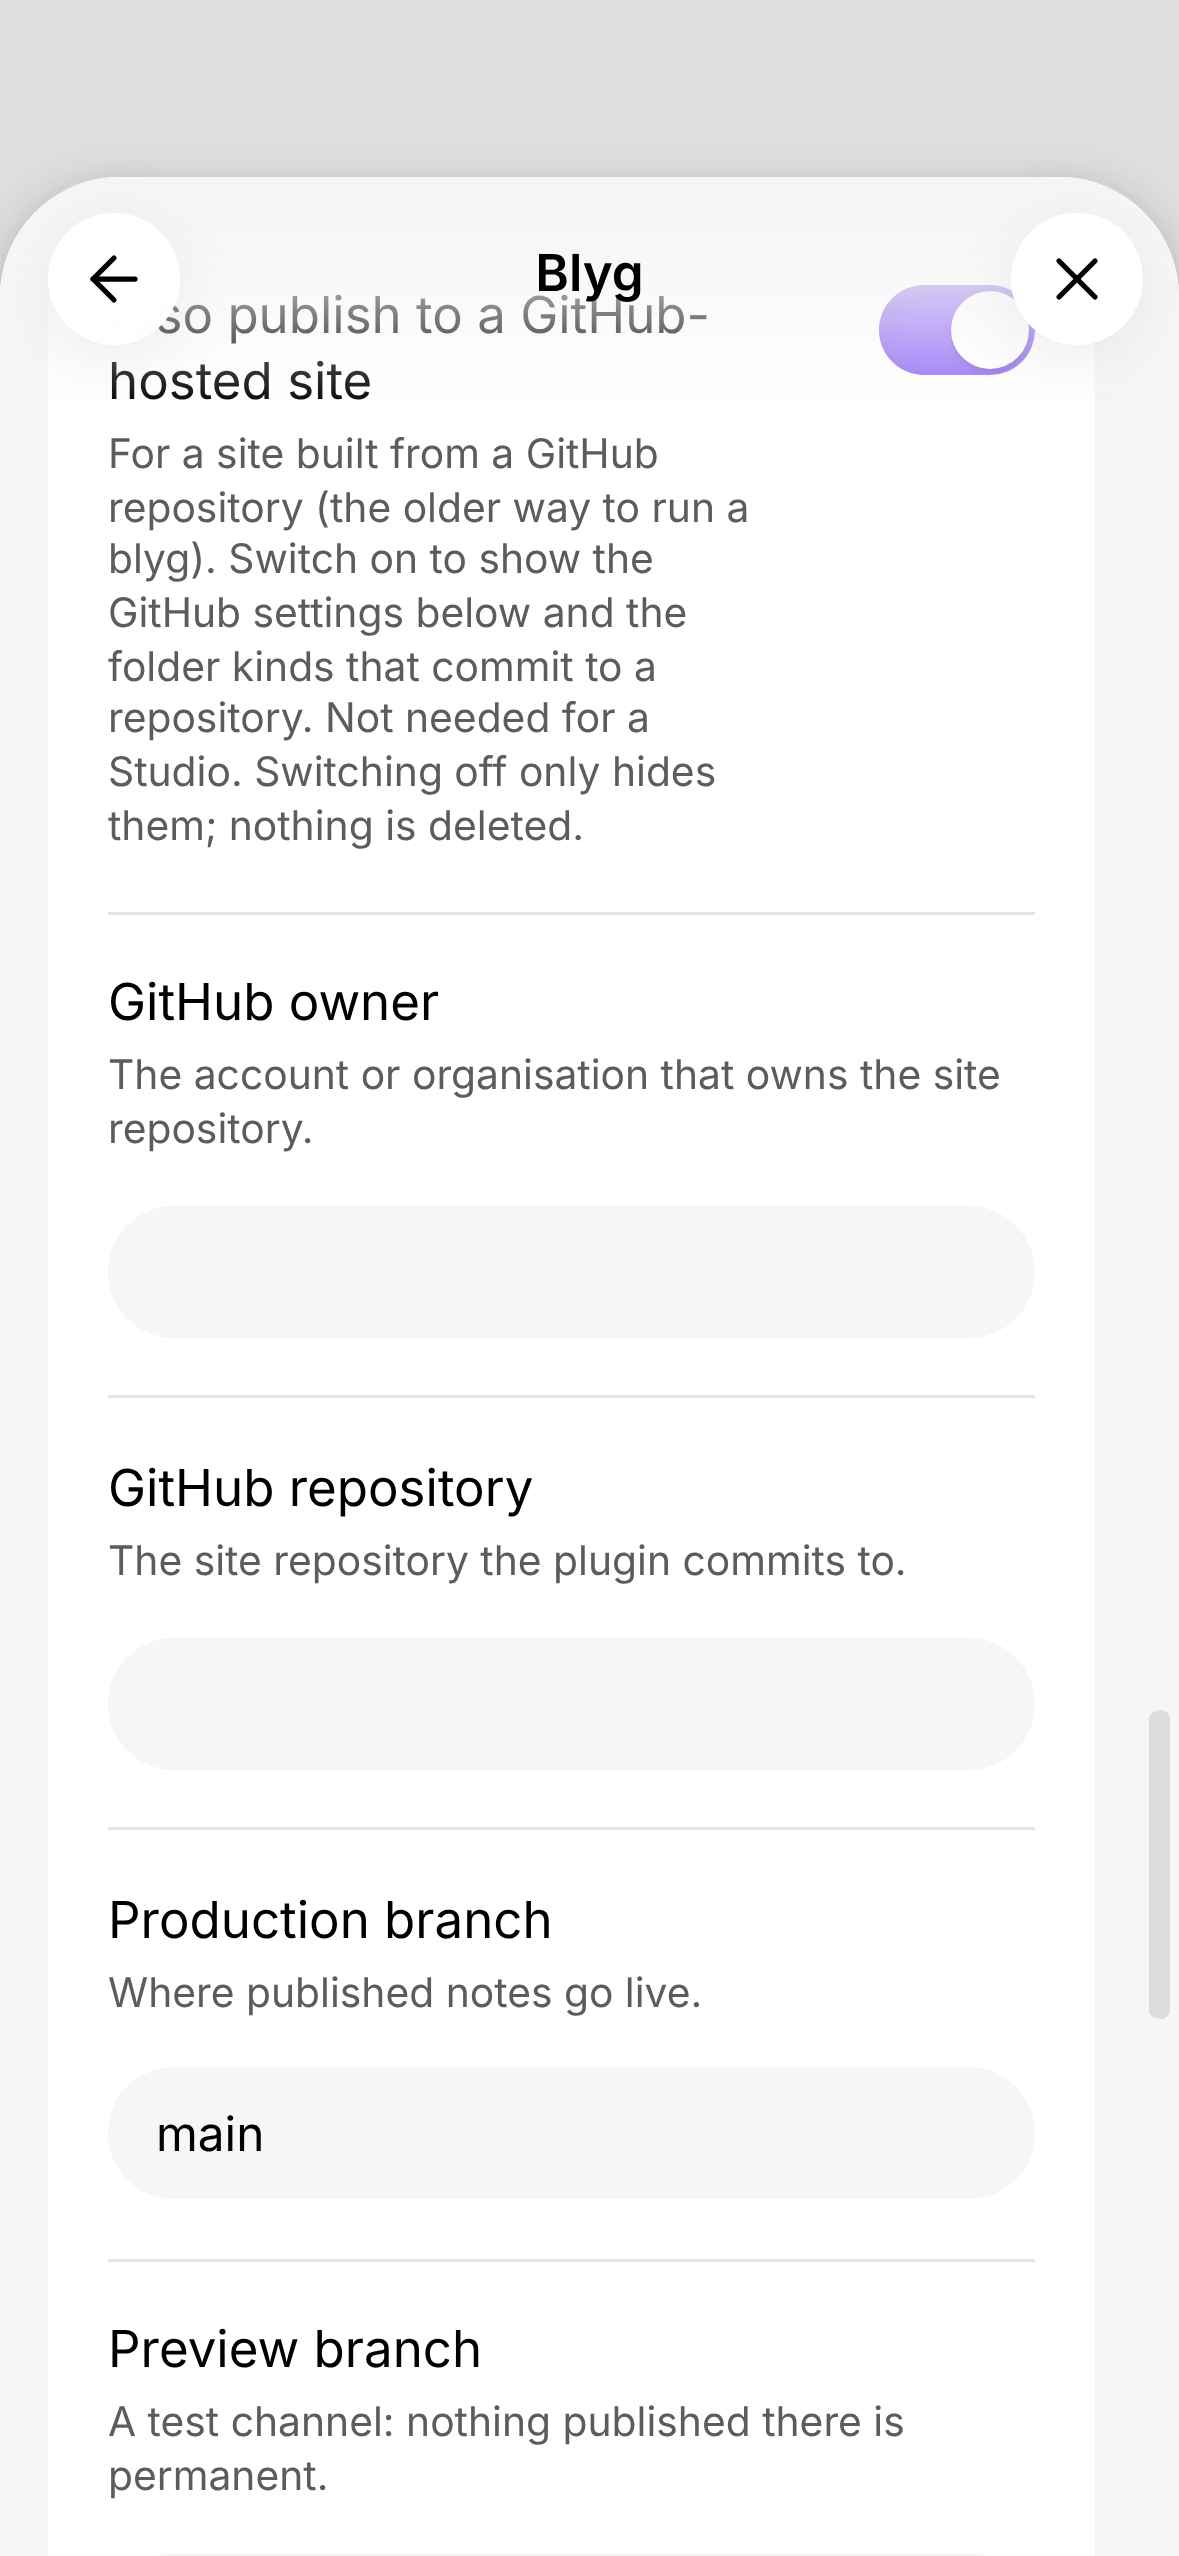
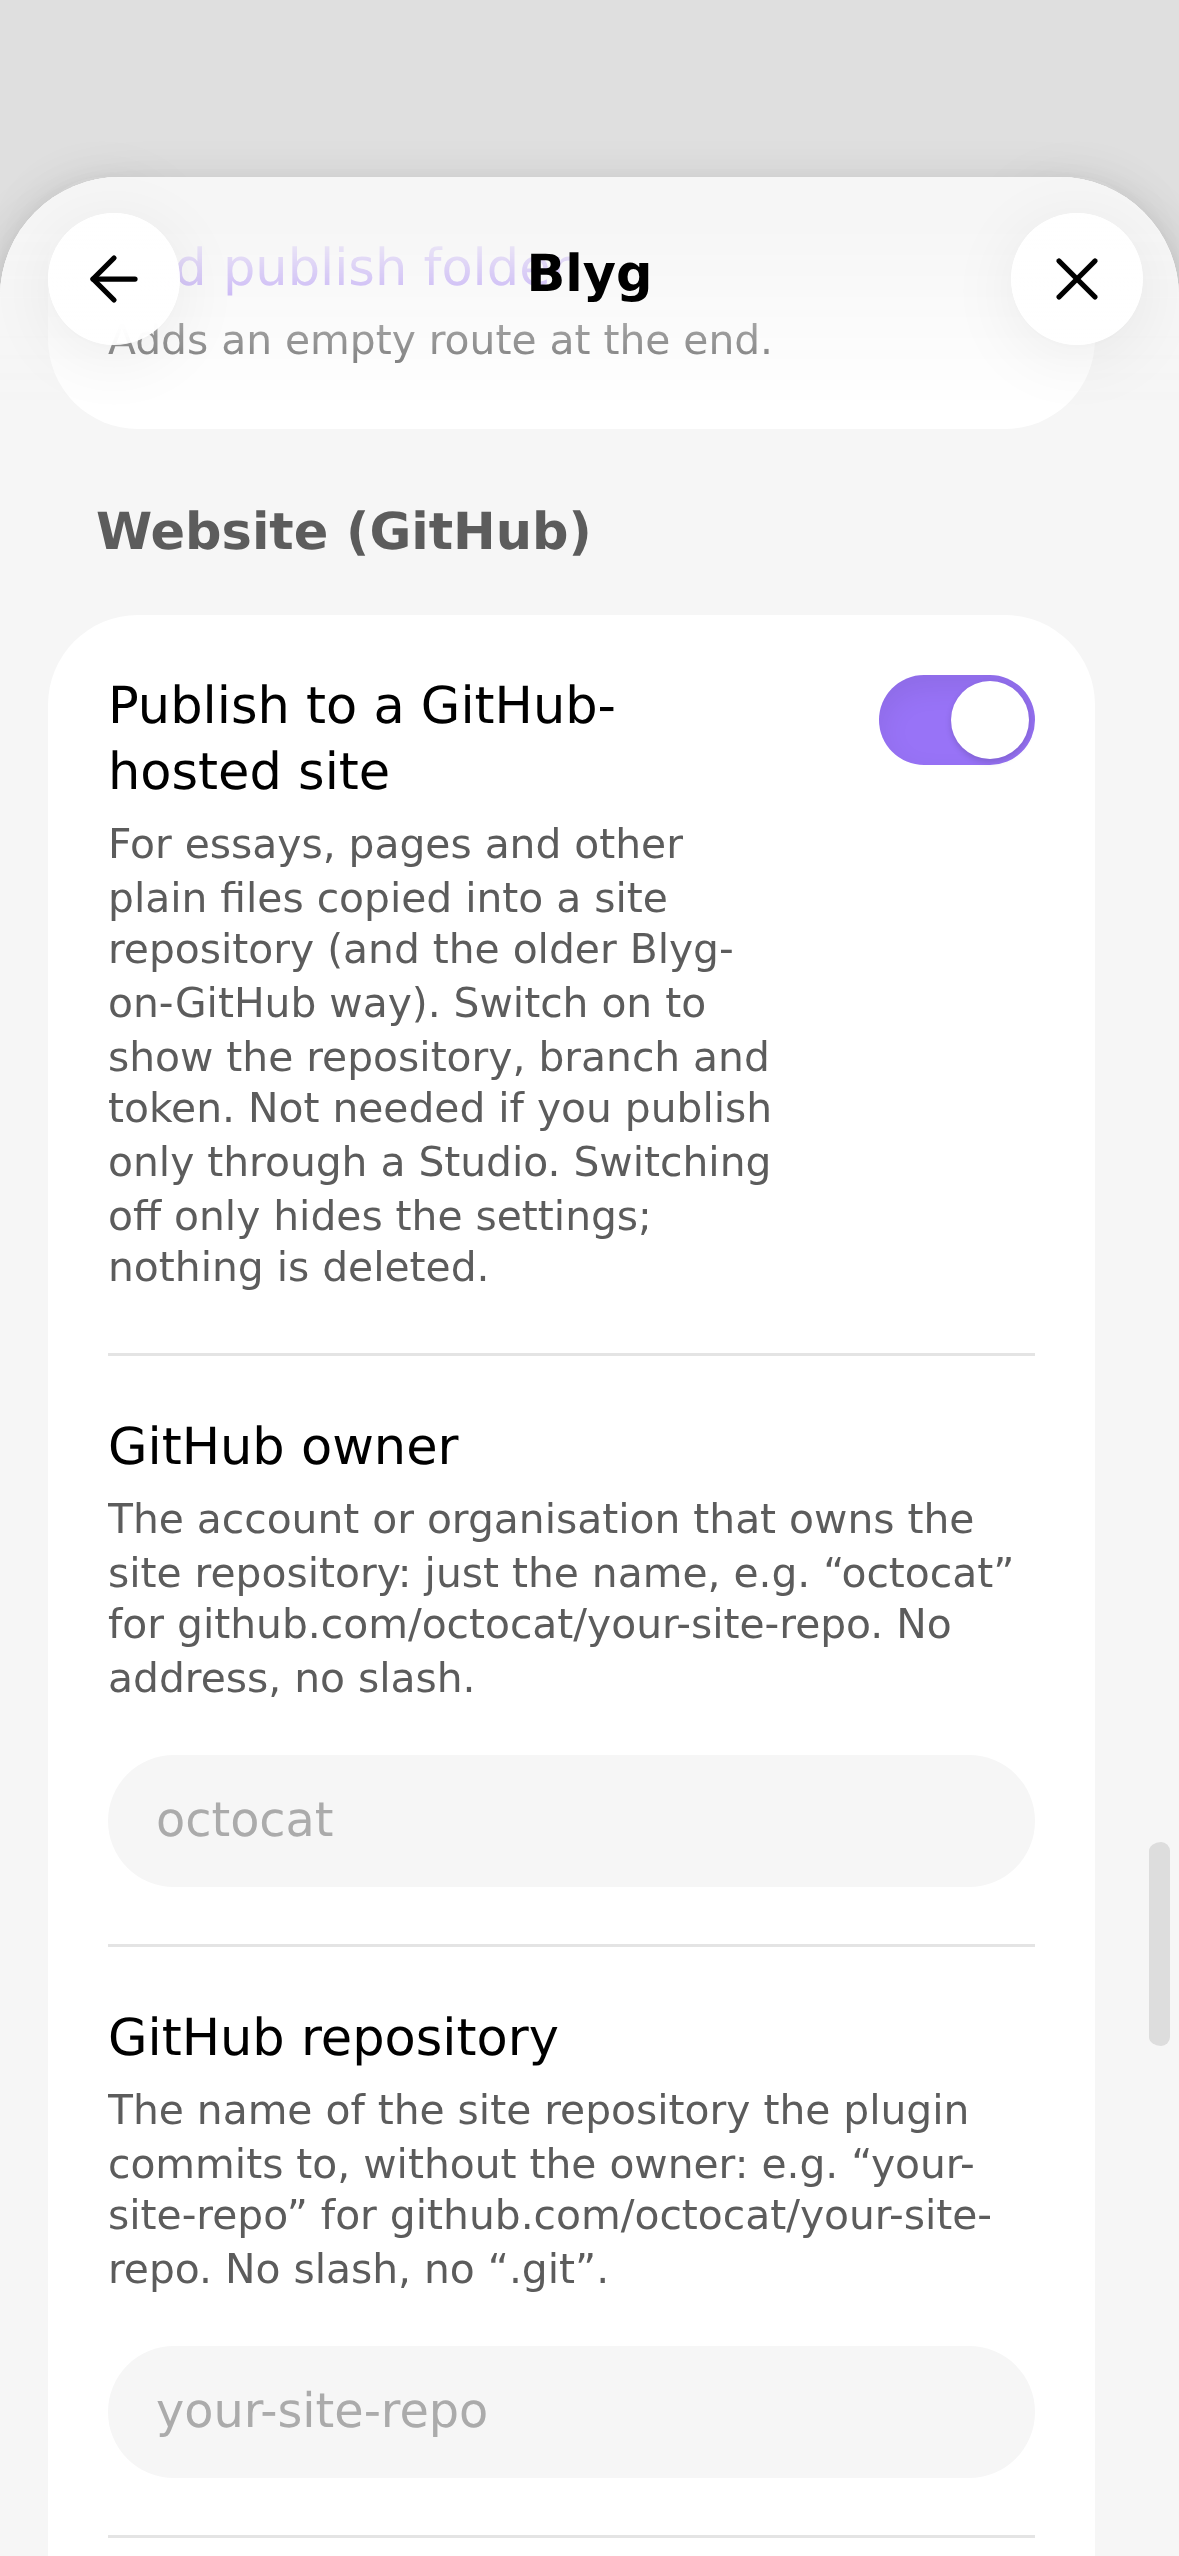
README: the open post in the reader; the GitHub-switch picture shows the switch
Claude-Session: https://claude.ai/code/session_01Fv8WkNJGG7nYQ749AdKAsC

diff --git a/README.md b/README.md
@@ -56,6 +56,10 @@ neighbour's item (the quote carries the author's name and the version it was tak
 
 <p><img src="images/readme/reader-feed.png" width="300" alt="The Blyg reader on a phone: the tabs Reading, Mentions and Sort and filter, the line Updated just now, and three post cards, one of them from Teo Brandt marked unread, one a thread, two marked You"></p>
 
+Open a post to read it as text. Reply starts a new thread that quotes it (or just the passage you selected), and Next takes you on:
+
+<p><img src="images/readme/reader-post.png" width="300" alt="An open post in the Blyg reader on a phone: the way back, the author Teo Brandt, one minute to read, the read mark with the place 2 of 25, a Reply button, Previous and Next, and the post's text on a calm grey ground"></p>
+
 **Before anything is sent**, a window shows what readers will see and what changes:
 
 <p><img src="images/readme/publish-preview.png" width="300" alt="The publish window on a phone: the target Studio, the text as readers will see it, the new text, and Cancel and Publish buttons"></p>
